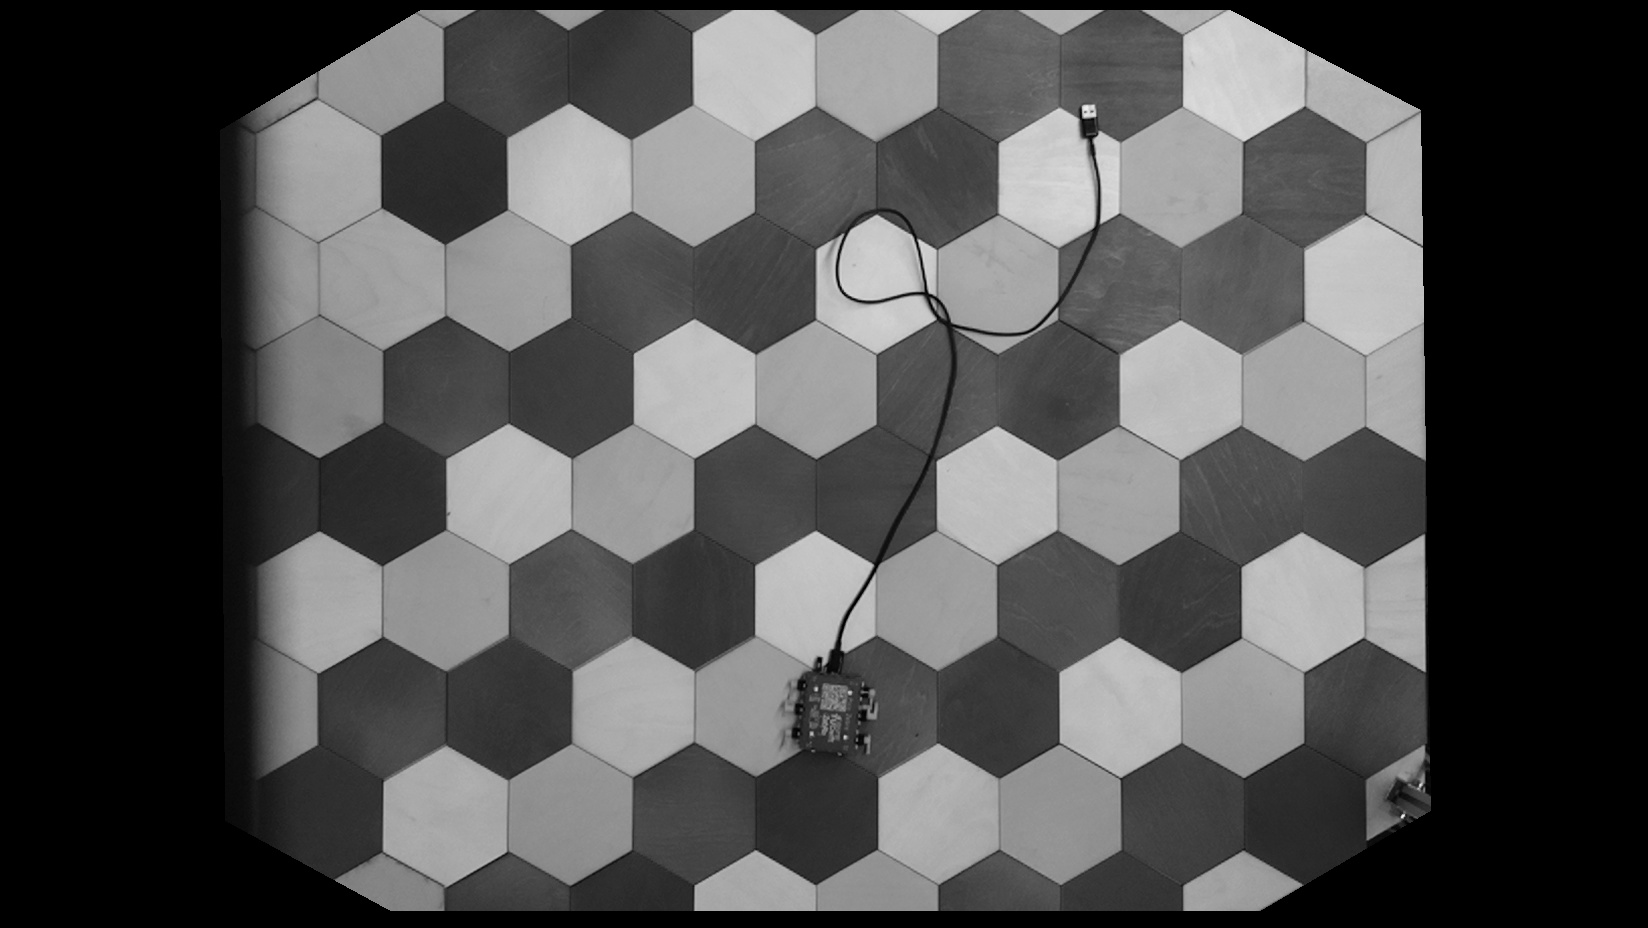
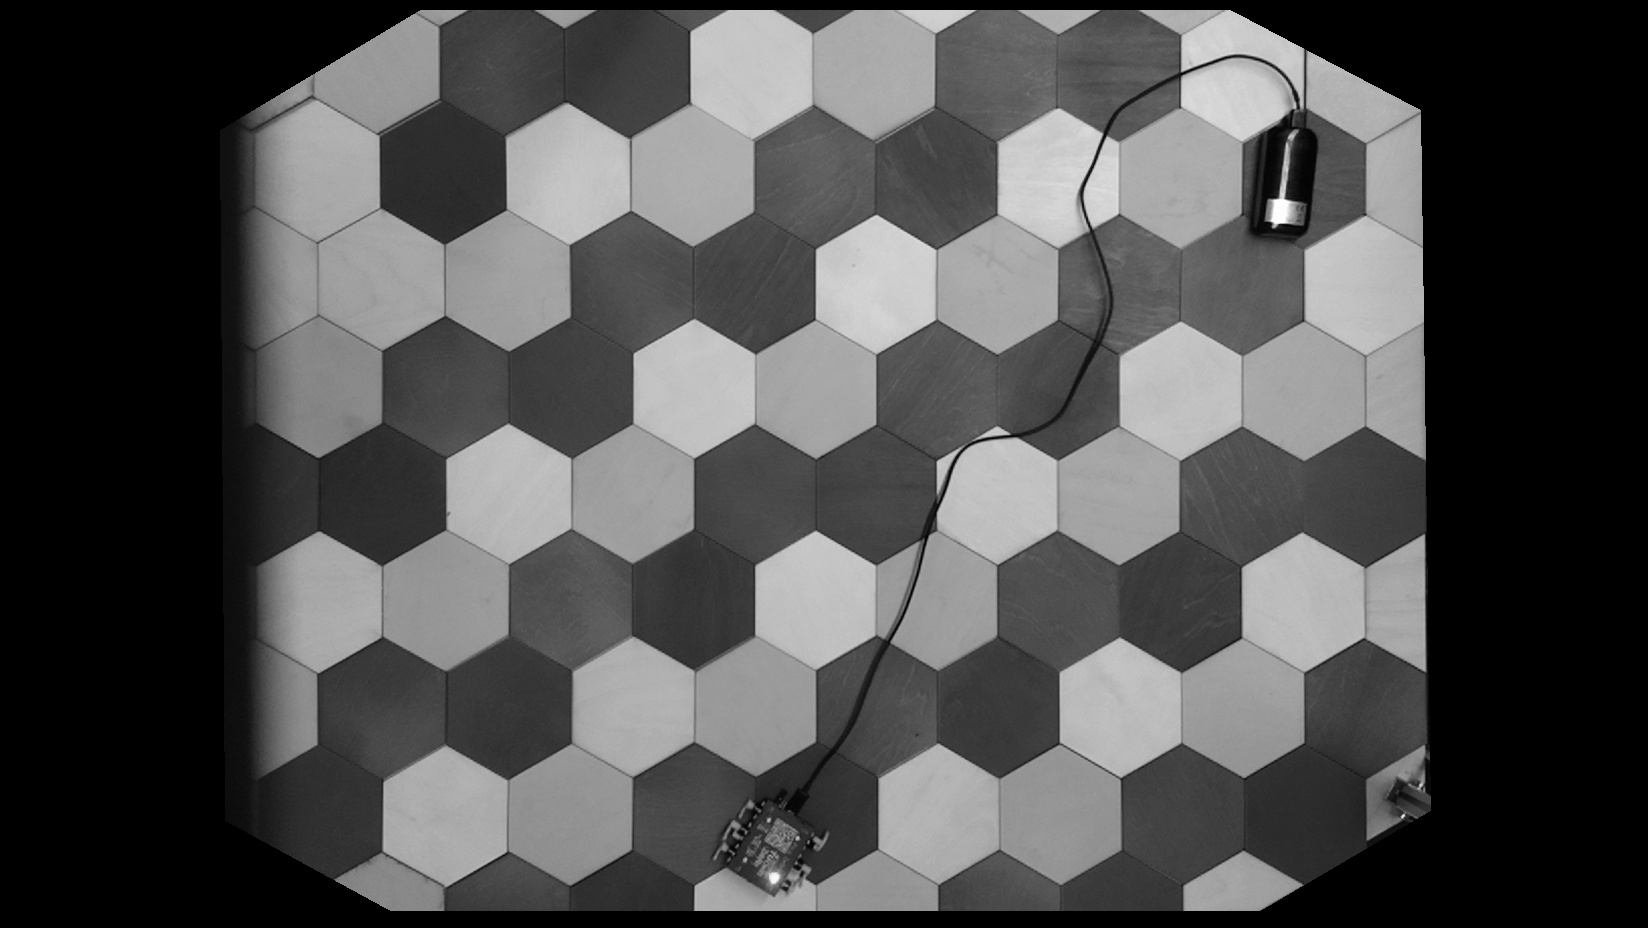
A seemingly working code for 1 Pico Zebro in Queue_Main_Test_V5 needs more testing with a proper Pico Zebro which can actually walk

diff --git a/PicoZebroDemo/Queue_Main_Test_V5.py b/PicoZebroDemo/Queue_Main_Test_V5.py
@@ -310,11 +310,11 @@ class Control_Zebro_Thread(threading.Thread):                               # Th
                         if Last_Movement == "Forward":                      # And wont do anything at all
                             Last_Movement = "Right"
                         elif Last_Movement == "Right":                      # this means the Pico Zebro will not get stuck trying to move forward.
-                            Last_Movement = "Forward"                       # But instead tries to go with a higher change of going right instead.
+                            Last_Movement = "Stop"                          # But instead tries to go with a higher change of going right instead.
                         elif Last_Movement == "Left":                       # This is only so because it will have to be to make the Pico not standing still
-                            Last_Movement = "Forward"
+                            Last_Movement = "Stop"
                         elif Last_Movement == "Stop":
-                            Last_Movement = "Left"
+                            Last_Movement = "Right"
                         Movement_Blocked = 0
 
                     # This is for determing the next Movement with change. Except for Stop the Movement change will be determined with highest change of being the same as Last Movement 
@@ -342,24 +342,24 @@ class Control_Zebro_Thread(threading.Thread):                               # Th
 
                     if Last_Movement == "Right":                            # Last movement was right so 50% change to keep going right
                         Random_N = random.randrange(1,100)
-                        if Random_N <= 30:                                  # 35% change to move Forward after moving right
+                        if Random_N <= 25:                                  # 25% change to move Forward after moving right
                             Movement = "Forward"
-                        elif Random_N > 35 and Random_N <= 45:              # 10% change to stop again
+                        elif Random_N > 25 and Random_N <= 35:              # 10% change to stop again
                             Movement = "Stop"
-                        elif Random_N > 45 and Random_N <= 95:              # 50% to keep moving right
+                        elif Random_N > 35 and Random_N <= 95:              # 60% to keep moving right
                             Movement = "Right"
                         elif Random_N > 95 and Random_N <= 100:             # 5% To go suddenly to left
                             Movement = "Left"
      
                     if Last_Movement == "Left":                             # Last movement was left so 50% to keep moving left
                         Random_N = random.randrange(1,100)
-                        if Random_N <= 35:                                  # 35% to go Forward
+                        if Random_N <= 25:                                  # 25% to go Forward
                             Movement = "Forward"    
-                        elif Random_N > 35 and Random_N <= 45:              # 10% to stop
+                        elif Random_N > 25 and Random_N <= 35:              # 10% to stop
                             Movement = "Stop"
-                        elif Random_N > 45 and Random_N <= 50:              # 5% to suddenly go right
+                        elif Random_N > 35 and Random_N <= 40:              # 5% to suddenly go right
                             Movement = "Right"
-                        elif Random_N > 50 and Random_N <= 100:             # 50% to keep moving right
+                        elif Random_N > 40 and Random_N <= 100:             # 60% to keep moving right
                             Movement = "Left"
                             
                     # If Direction works THIS can go away because direction keeps direction updated
@@ -763,7 +763,7 @@ def main(q_Control_Serial_Write,q_Data_is_Send,q_Control_Uart_Main,         # Th
 
         if Picture == 8:
             gray = cv2.cvtColor(image, cv2.COLOR_BGR2GRAY)                  # Take a gray picture
-            cv2.imwrite("gray.jpg",gray)
+            #cv2.imwrite("gray.jpg",gray)
             blurred = cv2.GaussianBlur(gray, (11, 11), 0)                   # Blur image for noise reduction
             # threshold the image to reveal light regions in the
             # blurred image
@@ -789,10 +789,10 @@ def main(q_Control_Serial_Write,q_Data_is_Send,q_Control_Uart_Main,         # Th
                 # draw the bright spot on the image
                 
                 (x, y, w, h) = cv2.boundingRect(c)                          # For finding the x and y of the leds
-                x_compare_1 = x + 70                                        # The max x and y can have moved before checking again
-                y_compare_1 = y + 60
-                x_compare_2 = x - 70
-                y_compare_2 = y - 60
+                x_compare_1 = x + 80                                        # The max x and y can have moved before checking again
+                y_compare_1 = y + 70
+                x_compare_2 = x - 80
+                y_compare_2 = y - 70
                 
                 if (x_compare_2 < Zebro_1_Middle_x < x_compare_1) and (y_compare_2 < Zebro_1_Middle_y < y_compare_1):   # For re deteming the middle point
                     New_Zebro_1_Middle_x = x

diff --git a/PicoZebroDemo/Functions/Blocking.py b/PicoZebroDemo/Functions/Blocking.py
@@ -239,22 +239,22 @@ class Blocking:
                 Blocking.append(Block)
                 Block = None
                 
-        if ( (Zebro_1_Middle_x < 440) and (Zebro_1_Middle_y < 130) and (Zebro_1_Middle_y > 80)):
+        if ( (Zebro_1_Middle_x < 480) and (Zebro_1_Middle_y < 160)):
                 Block = "North"
                 Blocking.append(Block)
                 Block = None
                 
-        if ( (Zebro_1_Middle_x < 440) and (Zebro_1_Middle_y < 900) and (Zebro_1_Middle_y > 800)):
+        if ( (Zebro_1_Middle_x < 480) and (Zebro_1_Middle_y > 800)):
                 Block = "West"
                 Blocking.append(Block)
                 Block = None
                 
-        if ( (Zebro_1_Middle_x > 1200) and (Zebro_1_Middle_y < 130) and (Zebro_1_Middle_y > 80)):
+        if ( (Zebro_1_Middle_x > 1200) and (Zebro_1_Middle_y < 160)):
                 Block = "East"
                 Blocking.append(Block)
                 Block = None
                 
-        if ( (Zebro_1_Middle_x > 1200) and (Zebro_1_Middle_y < 900) and (Zebro_1_Middle_y > 800)):
+        if ( (Zebro_1_Middle_x > 1200) and (Zebro_1_Middle_y > 800)):
                 Block = "South"
                 Blocking.append(Block)
                 Block = None
